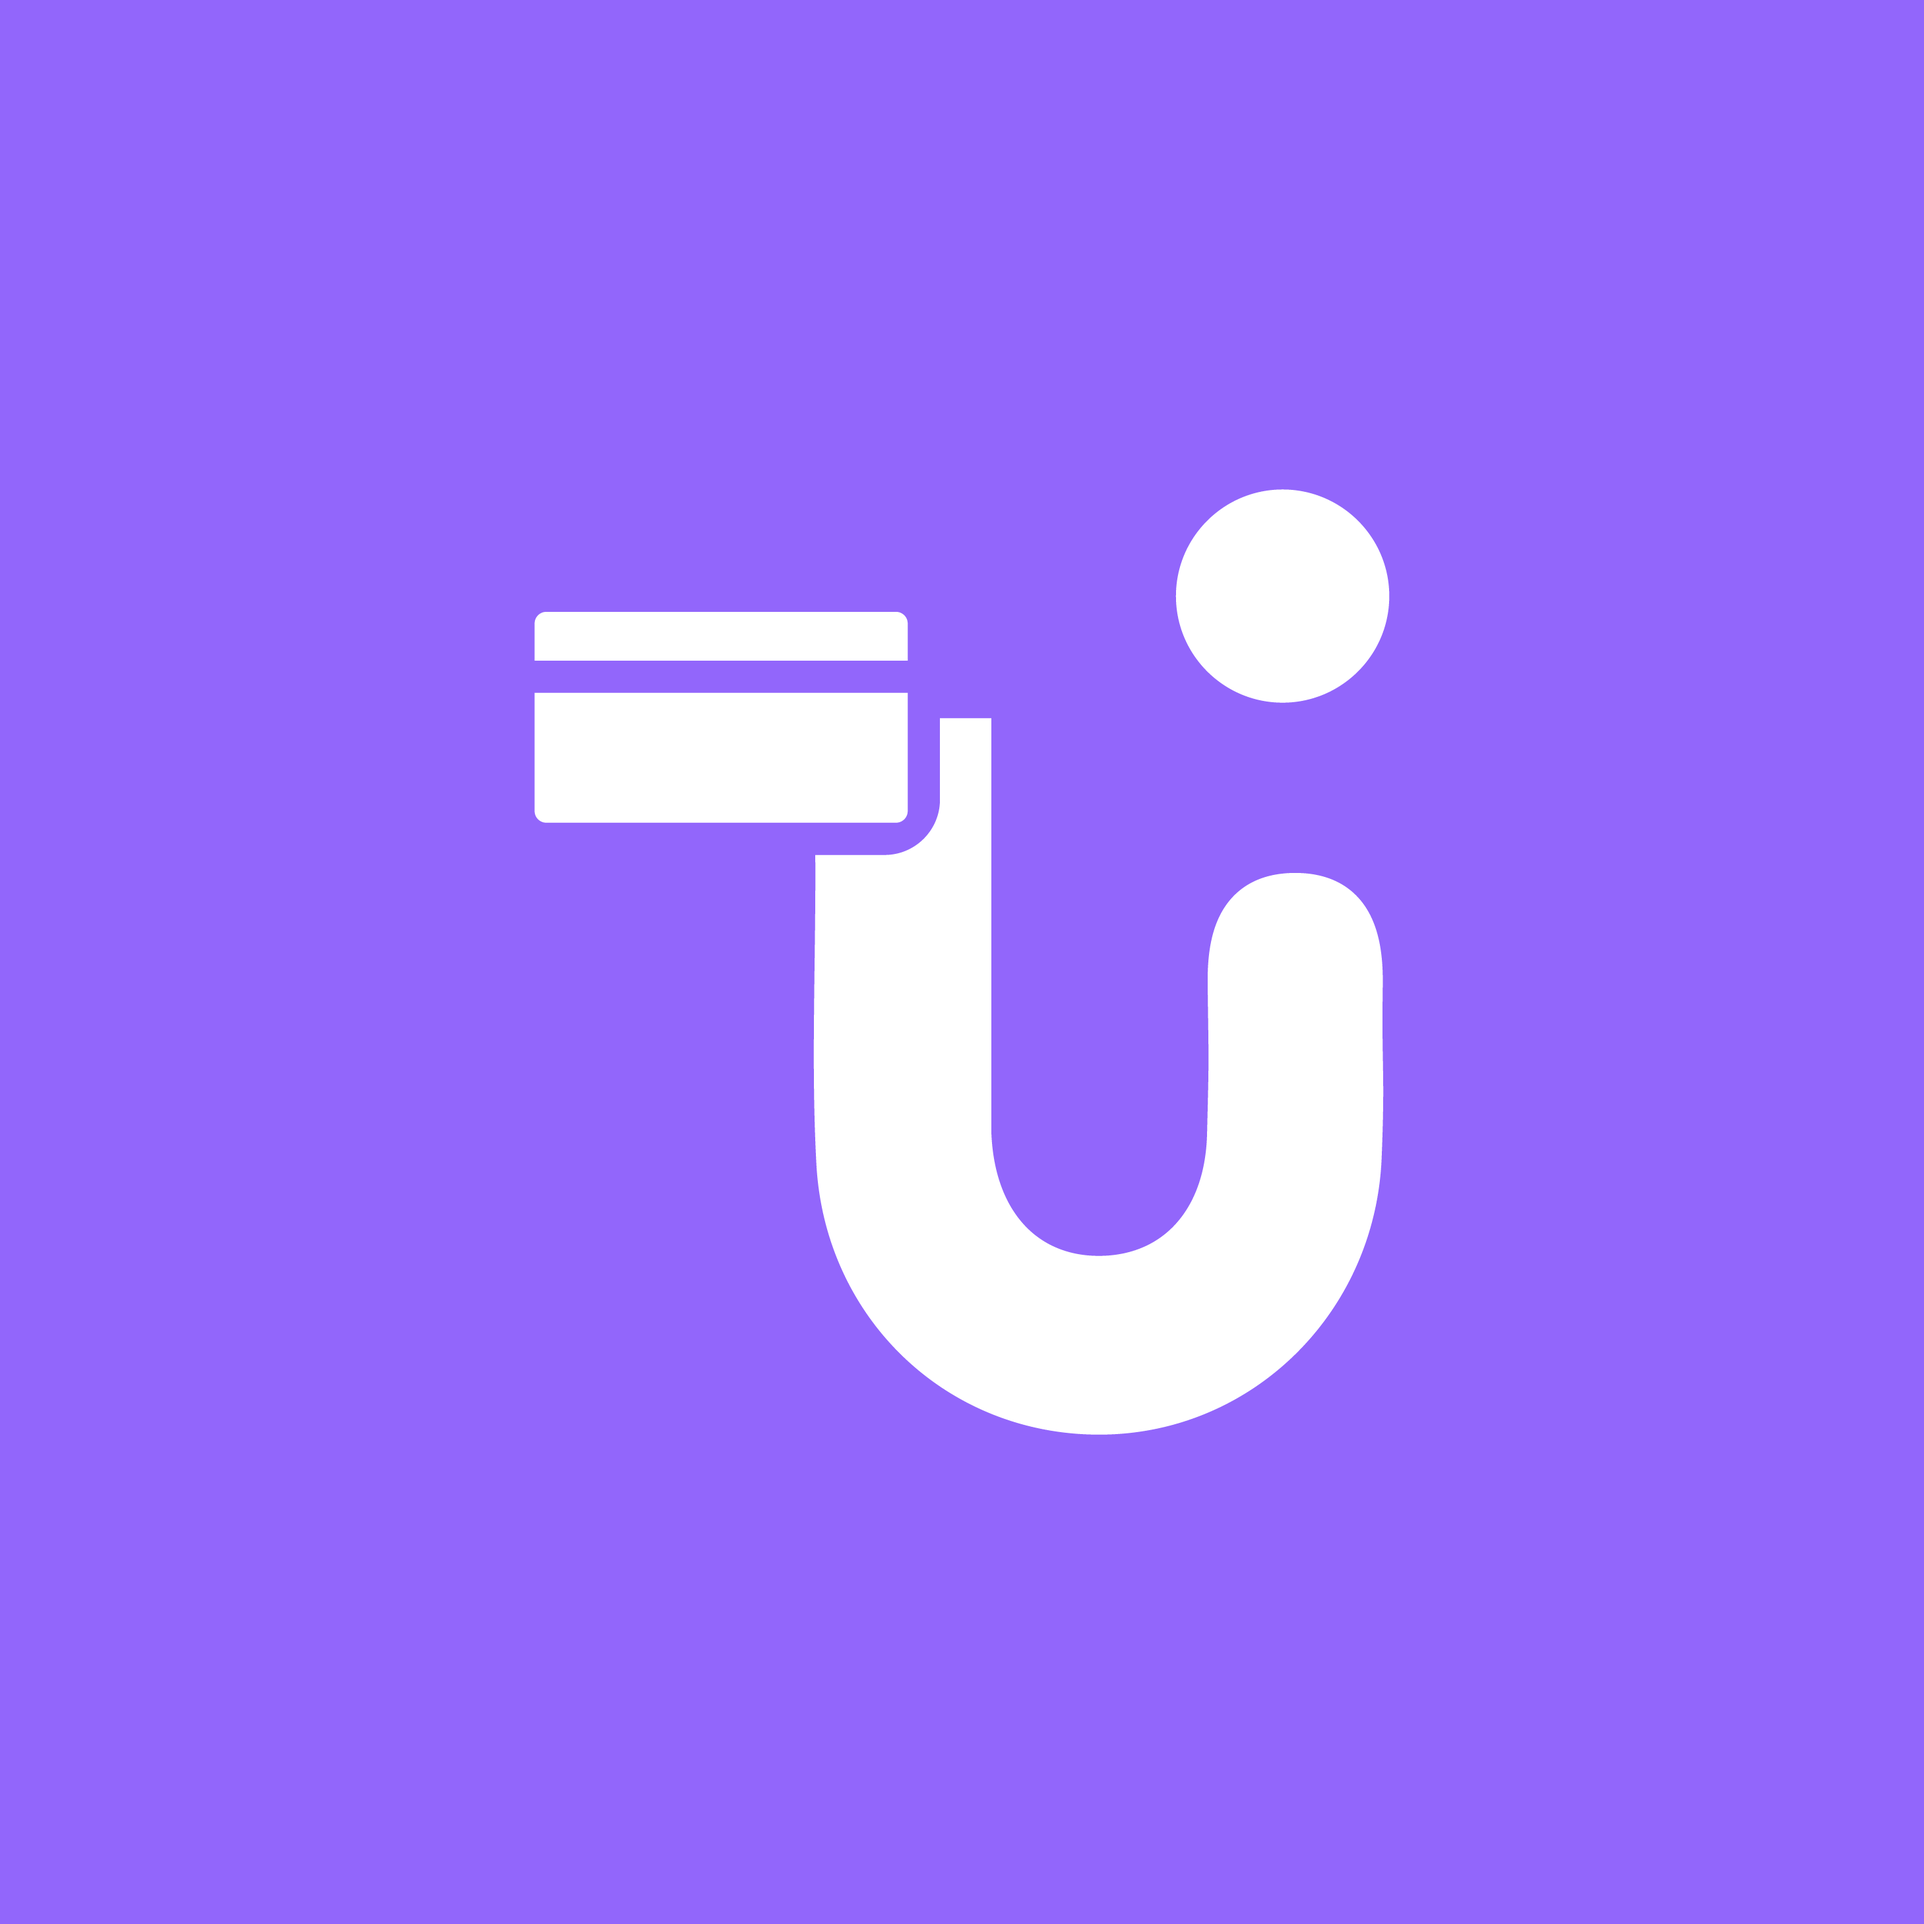
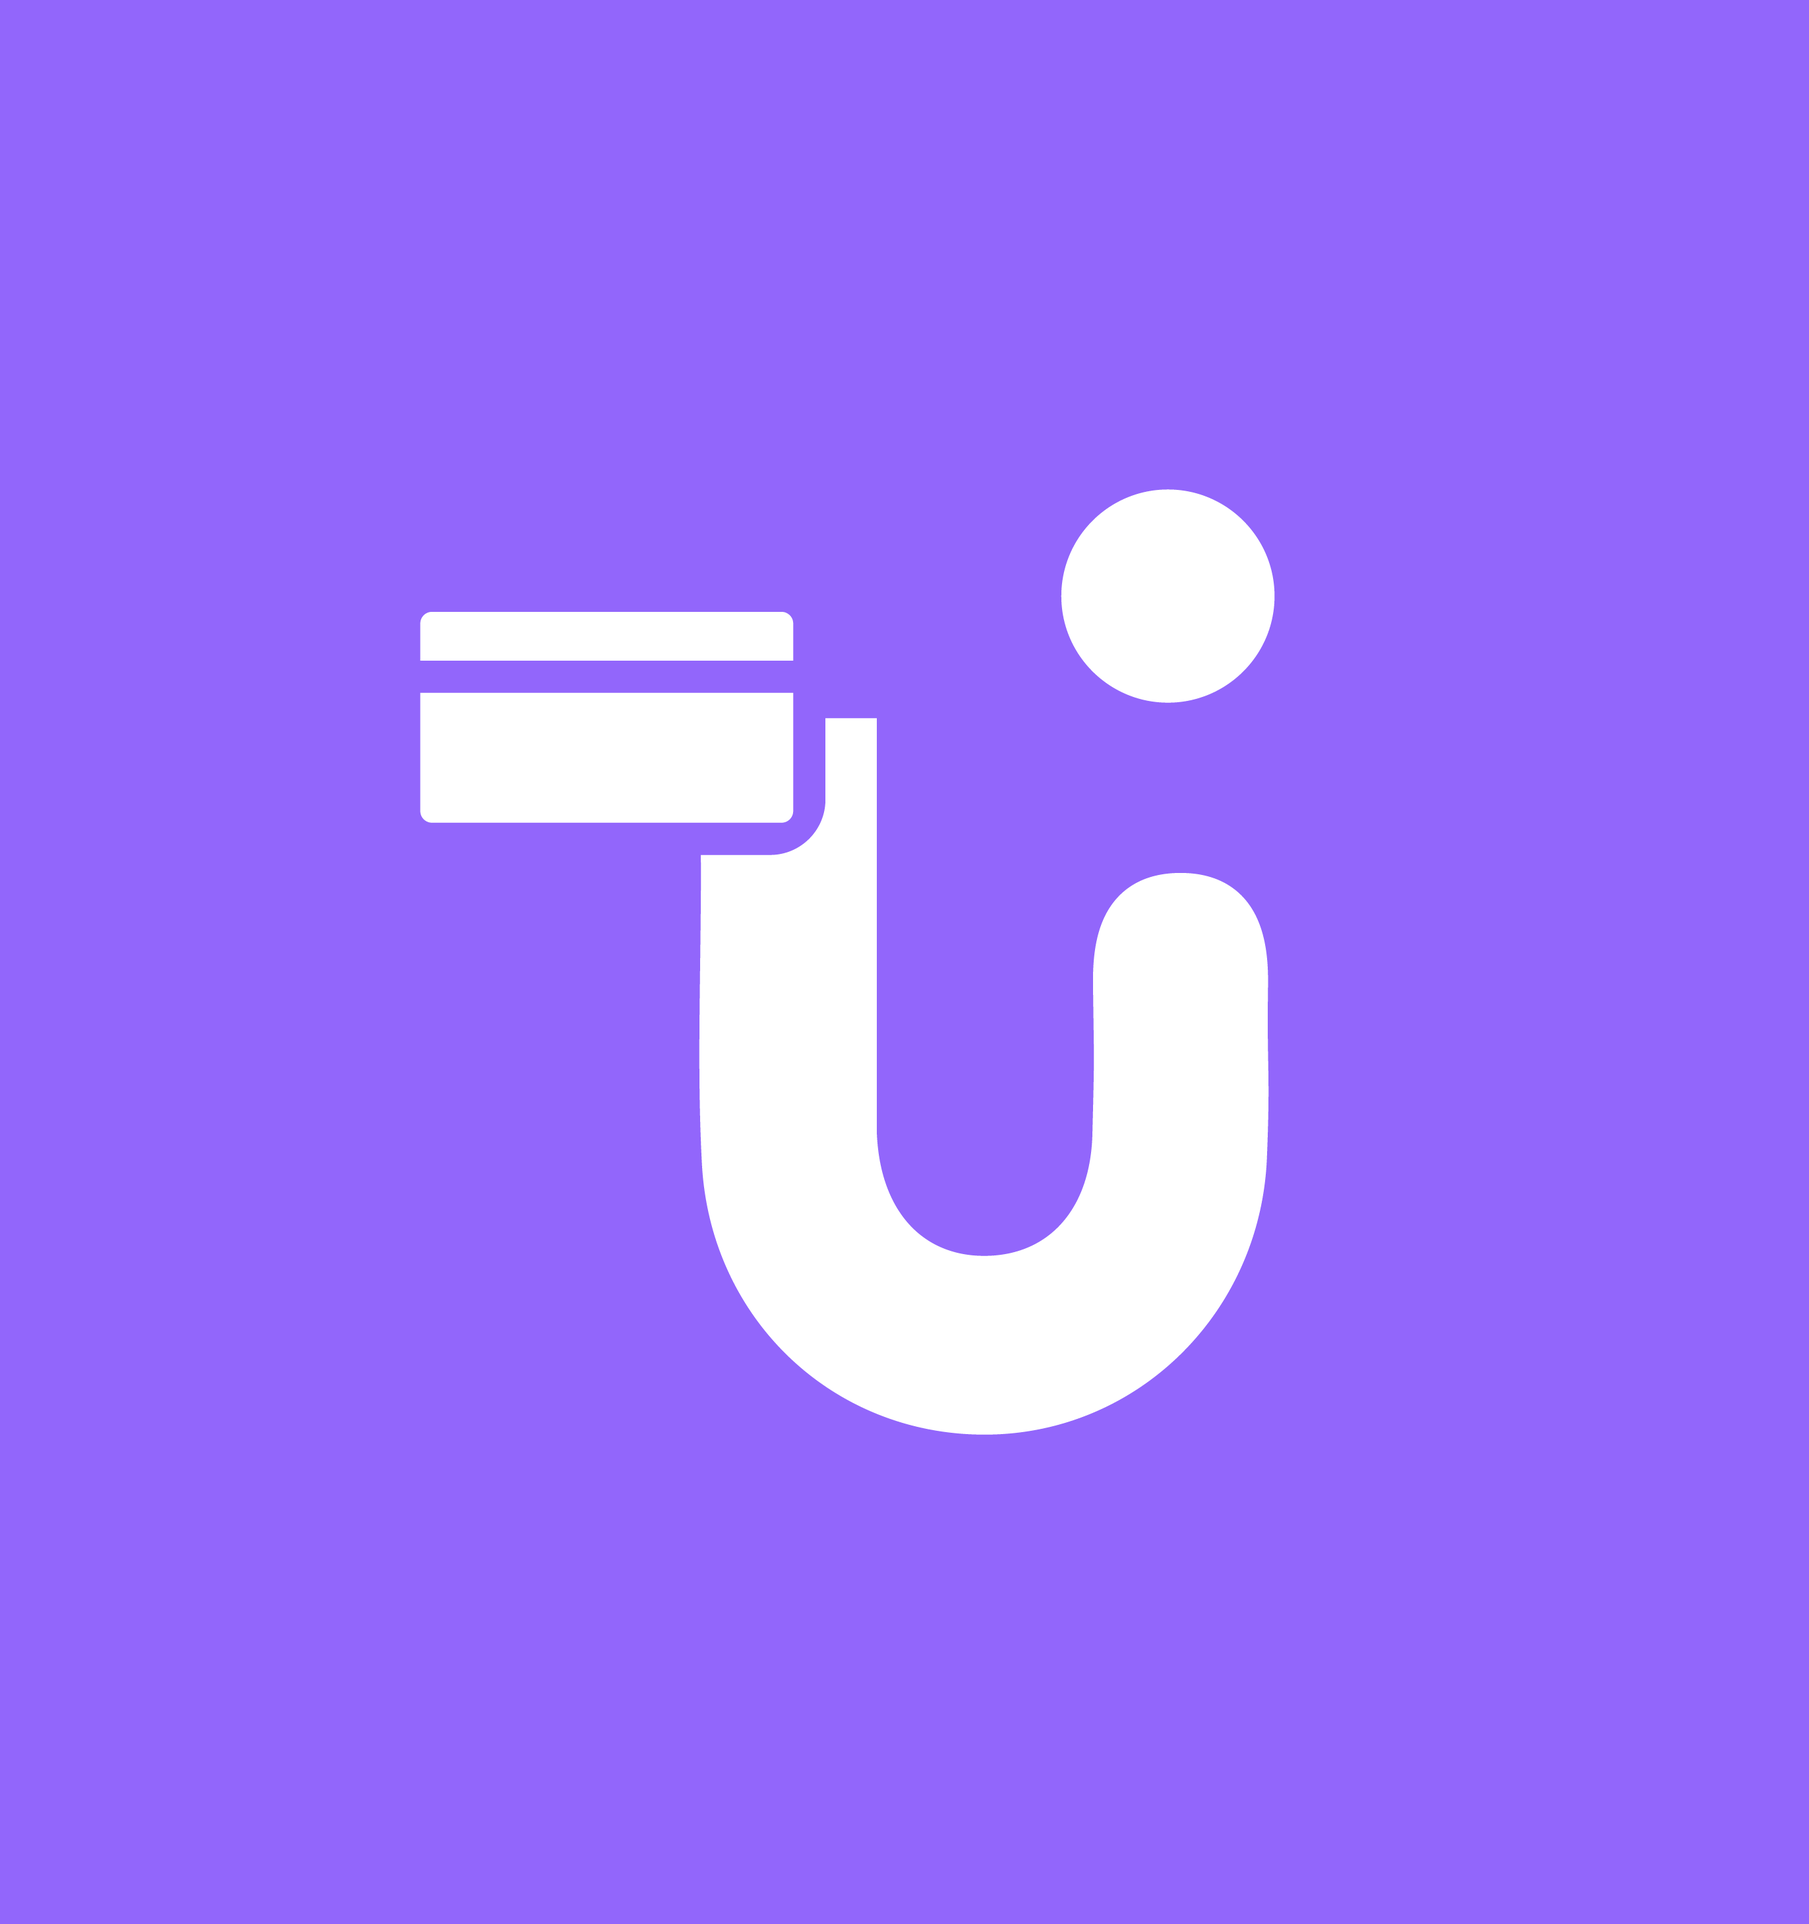
splash screen paganini

diff --git a/web/index.html b/web/index.html
@@ -1,6 +1,4 @@
-<!DOCTYPE html>
-<html>
-<head>
+<!DOCTYPE html><html><head>
   <!--
     If you are serving your web app in a path other than the root, change the
     href value below to reflect the base path you are serving from.
@@ -27,12 +25,84 @@
   <link rel="apple-touch-icon" href="icons/Icon-192.png">
 
   <!-- Favicon -->
-  <link rel="icon" type="image/png" href="favicon.png"/>
+  <link rel="icon" type="image/png" href="favicon.png">
 
   <title>paganini</title>
   <link rel="manifest" href="manifest.json">
+  <style id="splash-screen-style">
+    html {
+      height: 100%
+    }
+
+    body {
+      margin: 0;
+      min-height: 100%;
+      background-color: #9266fb;
+          background-size: 100% 100%;
+    }
+
+    .center {
+      margin: 0;
+      position: absolute;
+      top: 50%;
+      left: 50%;
+      -ms-transform: translate(-50%, -50%);
+      transform: translate(-50%, -50%);
+    }
+
+    .contain {
+      display:block;
+      width:100%; height:100%;
+      object-fit: contain;
+    }
+
+    .stretch {
+      display:block;
+      width:100%; height:100%;
+    }
+
+    .cover {
+      display:block;
+      width:100%; height:100%;
+      object-fit: cover;
+    }
+
+    .bottom {
+      position: absolute;
+      bottom: 0;
+      left: 50%;
+      -ms-transform: translate(-50%, 0);
+      transform: translate(-50%, 0);
+    }
+
+    .bottomLeft {
+      position: absolute;
+      bottom: 0;
+      left: 0;
+    }
+
+    .bottomRight {
+      position: absolute;
+      bottom: 0;
+      right: 0;
+    }
+  </style>
+  <script id="splash-screen-script">
+    function removeSplashFromWeb() {
+      document.getElementById("splash")?.remove();
+      document.getElementById("splash-branding")?.remove();
+      document.body.style.background = "transparent";
+    }
+  </script>
+  <meta content="width=device-width, initial-scale=1.0, maximum-scale=1.0, user-scalable=no" name="viewport">
 </head>
 <body>
-  <script src="flutter_bootstrap.js" async></script>
-</body>
-</html>
+  <picture id="splash">
+      <source srcset="splash/img/light-1x.png 1x, splash/img/light-2x.png 2x, splash/img/light-3x.png 3x, splash/img/light-4x.png 4x" media="(prefers-color-scheme: light)">
+      <source srcset="splash/img/dark-1x.png 1x, splash/img/dark-2x.png 2x, splash/img/dark-3x.png 3x, splash/img/dark-4x.png 4x" media="(prefers-color-scheme: dark)">
+      <img class="center" aria-hidden="true" src="splash/img/light-1x.png" alt="">
+  </picture>
+  <script src="flutter_bootstrap.js" async=""></script>
+
+
+</body></html>

diff --git a/lib/main.dart b/lib/main.dart
@@ -5,9 +5,17 @@ import 'package:paganini/presentation/pages/login_page.dart';
 import 'package:paganini/presentation/pages/qr_pages.dart';
 import 'package:paganini/presentation/pages/scanner_page.dart';
 import 'package:paganini/presentation/pages/wallet_page.dart';
-
+import 'package:flutter_native_splash/flutter_native_splash.dart';
 void main() {
+  WidgetsBinding widgetsBinding = WidgetsFlutterBinding.ensureInitialized();
+  FlutterNativeSplash.preserve(widgetsBinding: widgetsBinding);
+  setup();
   runApp(const MainApp());
+}
+
+void setup() async {
+  await Future.delayed(const Duration(seconds: 3));
+  FlutterNativeSplash.remove();
 }
 
 class MainApp extends StatelessWidget {
